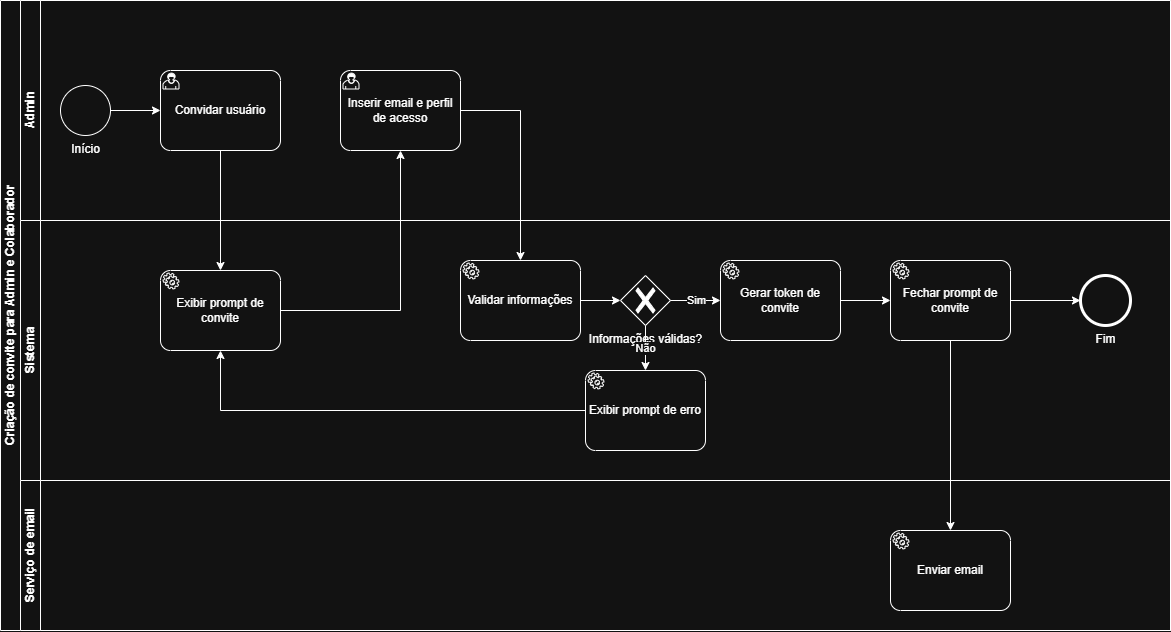
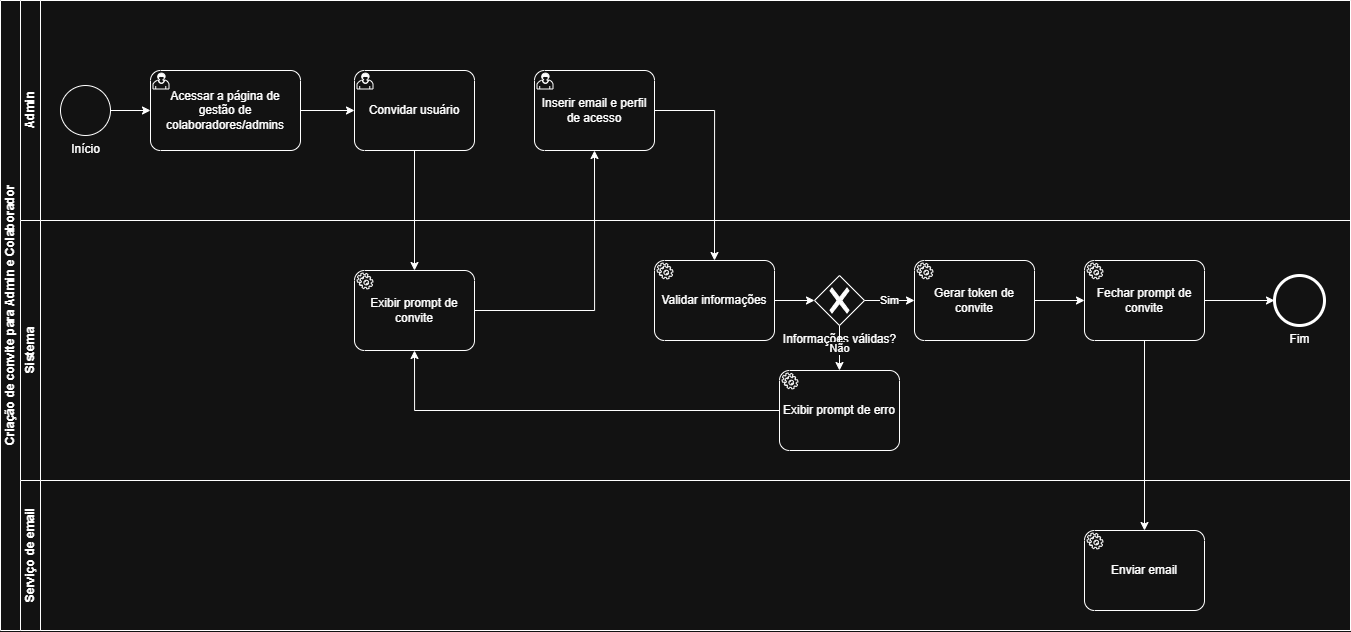
Atualiza diagrama do subprocesso de gestão de usuário e atualiza a documentação.

diff --git a/docs/processo-1-gestao-de-usuario.md b/docs/processo-1-gestao-de-usuario.md
@@ -1,16 +1,10 @@
 # 3.3.1 Processo 1 – GESTÃO DE USUÁRIO
 
----
-
 O processo de **Gestão de Usuário** tem como objetivo permitir o cadastro e manutenção das informações dos colaboradores e clientes da empresa, garantindo maior organização dos dados, rastreabilidade e apoio aos demais processos do sistema, como agendamento, prestação de serviços e cálculo de comissão.
 
 Atualmente, em muitos pequenos negócios, o controle de colaboradores é feito de maneira informal ou por meio de planilhas, o que pode gerar inconsistências cadastrais, retrabalho e dificuldade de integração com outros processos da operação. Com a informatização desse processo, será possível centralizar as informações dos profissionais, melhorar a confiabilidade dos dados e aumentar a eficiência administrativa do negócio.
 
----
-
 ## Oportunidades de melhoria
-
----
 
 A informatização do processo de Gestão de Colaborador traz as seguintes oportunidades de melhoria:
 
@@ -26,55 +20,17 @@ A informatização do processo de Gestão de Colaborador traz as seguintes oport
 
 • melhor rastreabilidade das alterações realizadas no cadastro.
 
----
-
 ## Modelagem
 
----
+Em seguida, apresentam-se os modelos dos sub-processos do processo de Gestão de Colaborador, descritos no padrão BPMN:
 
-Em seguida, apresenta-se os modelos do processo de Gestão de Colaborador, descritos no padrão BPMN:
-
-### Autenticação e Registro de Cliente
-![Autenticação e Registro de Cliente](images/bpmn/gestao-de-usuario/bpmn-gestao-de-usuario-sp1.png "Modelo BPMN do Processo 1 - Autenticação e Registro de Cliente.")
-
-### Subprocesso - Registro de Cliente
-![Subprocesso - Registro de Cliente](images/bpmn/gestao-de-usuario/bpmn-gestao-de-usuario-sp2.png "Modelo BPMN do Processo 1 - Subprocesso - Registro de Cliente.")
-
-### Criação de Convite para Admin e Colaborador
-![Criação de Convite para Admin e Colaborador](images/bpmn/gestao-de-usuario/bpmn-gestao-de-usuario-sp3.png "Modelo BPMN do Processo 1 - Criação de Convite para Admin e Colaborador")
-
-### Registro de Usuário Convidado
-![Registro de Usuário Convidado](images/bpmn/gestao-de-usuario/bpmn-gestao-de-usuario-sp4.png "Modelo BPMN do Processo 1 -Registro de Usuário Convidado.")
-
----
-
-## Detalhamento das atividades
-
----
-
-## Subprocesso 1 – Autenticação e Registro de Cliente
+### Subprocesso 1 – Autenticação e Registro de Cliente
 
 O processo de **Autenticação e Registro de Cliente** tem como objetivo permitir que um cliente acesse o sistema por meio do cadastro de uma nova conta ou pela autenticação com credenciais já existentes. O processo garante que apenas usuários com credenciais válidas obtenham acesso ao sistema. O processo se inicia com o usuário acessando a aplicação Web e apresentando a ele as opções disponíveis: criar uma nova conta ou digitar credenciais de acesso já existentes. Caso o usuário acione a opção de criação de uma nova conta, o sistema redireciona para o subprocesso de cadastro responsável pelo preenchimento e validação dos dados cadastrais do novo cliente. Ao ser concluído com sucesso, o sistema redireciona o usuário para a tela de autenticação. O detalhamento interno deste subprocesso está descrito no **Processo 2 – Registro de Cliente**. O usuário insere suas credenciais de acesso ao sistema (e-mail e senha). Esta atividade é inicializada tanto pelo fluxo de login direto quanto após a conclusão do cadastro. Depois há uma atividade executada pelo sistema em que as credenciais informadas são verificadas em relação à existência do usuário e à correspondência da senha. Não há interação direta do usuário nesta etapa. Caso a validação invalide a entrada, o sistema exibe uma mensagem de erro informando que as credenciais inseridas são inválidas. Então o usuário é redirecionado para tentar novamente. Caso a validação das credenciais seja bem-sucedida, uma sessão autenticada é criada para o usuário, concedendo a ele acesso ao sistema.
 
-## Subprocesso 2 – Registro de Cliente
+![Autenticação e Registro de Cliente](images/bpmn/gestao-de-usuario/bpmn-gestao-de-usuario-sp1.png "Modelo BPMN do Processo 1 - Subprocesso - Autenticação e Registro de Cliente.")
 
-O processo de **Registro de Cliente** corresponde ao subprocesso de cadastro referenciado no Processo 1. Ele tem como objetivo coletar e validar as informações do novo cliente, efetuando seu login automaticamente ao final do cadastro bem-sucedido. O usuário preenche o formulário de cadastro com seus dados pessoais de acesso (esta é a única atividade de interação do usuário neste processo). Em seguida, há uma atividade executada pelo sistema em que os dados informados no formulário são verificados em relação ao cumprimento das restrições definidas (campos obrigatórios, e-mail único, correspondência de senha). Depois o sistema exibe uma mensagem de erro indicando quais campos precisam ser corrigidos. O usuário retorna ao formulário para efetuar os ajustes necessários. Após a validação bem-sucedida dos dados, o novo cadastro é registrado e uma sessão autenticada é criada automaticamente para o usuário encerrando o subprocesso.
-
-## Subprocesso 3 – Criação de Convite para Admin e Colaborador
-
-O processo de **Criação de Convite para Admin e Colaborador** tem como objetivo permitir que um administrador convide novos usuários para o sistema definindo seu e-mail e perfil de acesso. O sistema valida as informações, gera um token de convite e envia o convite por e-mail ao destinatário. O processo se inicia com o administrador acionando a funcionalidade de convite de novo usuário. Em seguida, o sistema exibe o prompt de convite para preenchimento das informações e exibe o formulário de convite para que o administrador insira o e-mail e o perfil de acesso do usuário convidado. O administrador preenche o e-mail do destinatário e define o perfil de acesso que será atribuído ao usuário convidado. Depois disso, há uma atividade do sistema em que e-mail e o perfil de acesso informados são verificados quanto ao formato e preenchimento obrigatório. Caso encontre algum erro, o sistema exibe uma mensagem de erro informando quais campos estão incorretos. Seguido disso, o administrador retorna ao formulário para corrigir os dados. Uma vez corrigido os dados ou inseridos eles corretamente, um token único de convite é gerado e associado ao e-mail e perfil de acesso definidos pelo administrador. Este token será utilizado para autenticar o convite no momento do registro do usuário. Em seguida, o sistema fecha o formulário de convite e aciona o serviço de e-mail para envio do convite ao destinatário. Ao final, o convite contendo o link com o token gerado é enviado ao endereço de e-mail informado pelo administrador.
-
-## Subprocesso 4 – Registro de Usuário Convidado
-
-O processo de **Registro de Usuário Convidado** tem como objetivo permitir que um usuário que recebeu um convite por e-mail conclua seu cadastro no sistema. O processo valida o token do convite, identifica o tipo de usuário (Admin ou Colaborador), exibe o formulário de cadastro correspondente e, após validação dos dados, realiza o login automaticamente. O processo se inicia com o usuário acessando o link de convite recebido por e-mail. Em seguida, o sistema recebe o token embutido no link e inicia o processo de validação. Há uma atividade executada pelo sistema em que o token presente no link é recebido e encaminhado para validação. Depois disso, o token recebido é verificado quanto à sua existência, validade e prazo de expiração. De acordo com a falta de correspondência, o sistema exibe uma mensagem informando que o link do convite é inválido ou expirou e então o processo é encerrado. Se a correspondência é positiva e o sistema identifica o perfil de acesso associado ao token do convite, ele redireciona para a página de cadastro correspondente. Logo em seguida, o sistema exibe o formulário de cadastro para o perfil de administrador ou o formulário de cadastro para o perfil de colaborador a depender do acesso. Então o usuário preenche o formulário de cadastro exibido conforme seu perfil de acesso. Esta atividade é compartilhada pelos fluxos de admin e colaborador. Depois há uma atividade do sistema em que os dados preenchidos no formulário são verificados quanto ao cumprimento das restrições definidas. Em caso de negativa, o sistema exibe uma mensagem de erro indicando quais campos precisam ser corrigidos e o usuário retorna ao formulário para efetuar os ajustes. Em caso de validação bem-sucedida dos dados, o novo cadastro é efetuado, o token de convite é invalidado e uma sessão autenticada é criada automaticamente para o usuário.
-
-## Subprocessos
-
----
-
-## Subprocesso 1 – Autenticação e Registro do Usuário
-
----
+#### Detalhamento das atividades
 
 #### Abrir aplicação
 
@@ -95,11 +51,23 @@ O processo de **Registro de Usuário Convidado** tem como objetivo permitir que 
 | Sessão criada (admi)      | Atividade "Registro de Usuário Convidado" |
 | Mensagem de erro    | "Credenciais inválidas. Tente novamente." |
 
+#### Wireframes
+
+![Tela Autenticação](images/wireframe/gestao-de-usuario/loginServifySemErro.png)
+
 ---
 
-## Subprocesso 2 – Registro de Cliente
+![Tela Autenticação](images/wireframe/gestao-de-usuario/loginServifyComErro.png)
 
 ---
+
+### Subprocesso 2 – Registro de Cliente
+
+O processo de **Registro de Cliente** corresponde ao subprocesso de cadastro referenciado no Processo 1. Ele tem como objetivo coletar e validar as informações do novo cliente, efetuando seu login automaticamente ao final do cadastro bem-sucedido. O usuário preenche o formulário de cadastro com seus dados pessoais de acesso (esta é a única atividade de interação do usuário neste processo). Em seguida, há uma atividade executada pelo sistema em que os dados informados no formulário são verificados em relação ao cumprimento das restrições definidas (campos obrigatórios, e-mail único, correspondência de senha). Depois o sistema exibe uma mensagem de erro indicando quais campos precisam ser corrigidos. O usuário retorna ao formulário para efetuar os ajustes necessários. Após a validação bem-sucedida dos dados, o novo cadastro é registrado e uma sessão autenticada é criada automaticamente para o usuário encerrando o subprocesso.
+
+![Subprocesso - Registro de Cliente](images/bpmn/gestao-de-usuario/bpmn-gestao-de-usuario-sp2.png "Modelo BPMN do Processo 1 - Subprocesso - Registro de Cliente.")
+
+#### Detalhamento das atividades
 
 #### Preencher formulário
 
@@ -130,11 +98,91 @@ O processo de **Registro de Usuário Convidado** tem como objetivo permitir que 
 | Cadastro realizado  | Toast "Cadastro realizado com sucesso." e Atividade "Preencher formulário"  |
 | Mensagem de erro    | "Campo inválido" |
 
+#### Wireframes
+
+![Tela Subprocesso - Registro de Cliente](images/wireframe/gestao-de-usuario/cadastroClienteServify.png)
+
 ---
 
-## Subprocesso 3 – Registro de Usuários
+### Subprocesso 3 – Criação de Convite para Admin e Colaborador
+
+O processo de **Criação de Convite para Admin e Colaborador** tem como objetivo permitir que um administrador convide novos usuários para o sistema definindo seu e-mail e perfil de acesso. O sistema valida as informações, gera um token de convite e envia o convite por e-mail ao destinatário. O processo se inicia com o administrador acionando a funcionalidade de convite de novo usuário. Em seguida, o sistema exibe o prompt de convite para preenchimento das informações e exibe o formulário de convite para que o administrador insira o e-mail e o perfil de acesso do usuário convidado. O administrador preenche o e-mail do destinatário e define o perfil de acesso que será atribuído ao usuário convidado. Depois disso, há uma atividade do sistema em que e-mail e o perfil de acesso informados são verificados quanto ao formato e preenchimento obrigatório. Caso encontre algum erro, o sistema exibe uma mensagem de erro informando quais campos estão incorretos. Seguido disso, o administrador retorna ao formulário para corrigir os dados. Uma vez corrigido os dados ou inseridos eles corretamente, um token único de convite é gerado e associado ao e-mail e perfil de acesso definidos pelo administrador. Este token será utilizado para autenticar o convite no momento do registro do usuário. Em seguida, o sistema fecha o formulário de convite e aciona o serviço de e-mail para envio do convite ao destinatário. Ao final, o convite contendo o link com o token gerado é enviado ao endereço de e-mail informado pelo administrador.
+
+![Criação de Convite para Admin e Colaborador](images/bpmn/gestao-de-usuario/bpmn-gestao-de-usuario-sp3.png "Modelo BPMN do Processo 1 - Criação de Convite para Admin e Colaborador")
+
+#### Detalhamento das atividades
+
+#### Convidar usuário
+
+| **Comandos**     | **Destino**                         | **Tipo** |
+| ---------------- | ----------------------------------- | -------- |
+| Convidar | Atividade "Exibir prompt de convite" | padrão  |
 
 ---
+
+#### Exibir prompt de convite
+
+| **Campo**         | **Tipo**       | **Restrições**                        | **Valor padrão** |
+| ----------------- | -------------- | ------------------------------------- | ---------------- |
+| E-mail do usuário            | Caixa de texto | obrigatório; deve ter formato válido  | vazio            |
+| Cargo  | Seleção única  | Admin / Colaborador                   | Colaborador      |
+
+| **Comandos**          | **Destino**                              | **Tipo** |
+| --------------------- | ---------------------------------------- | -------- |
+| Enviar Convite | Atividade "Exibir mensagem de convite enviado" | padrão |
+| Cancelar              | Fim do processo                          | cancelar |
+
+| **Resultado**        | **Destino**                          |
+| -------------------- | ------------------------------------ |
+| Convite enviado  | Atividade "Convite convite enviado com sucesso"   |
+| Mensagem | "Não foi possível enviar o convite. Tente novamente."   |
+
+---
+
+#### Fechar prompt de convite
+
+| **Comandos**          | **Destino**                              | **Tipo** |
+| --------------------- | ---------------------------------------- | -------- |
+| "X" | Atividade "Exibir mensagem de convite enviado" | padrão |
+
+| **Campo**          | **Tipo** | **Restrições**  | **Valor padrão**              |
+| ------------------ | -------- | --------------- | ----------------------------- |
+| prompt de convite  | Exibição | somente leitura | fechado automaticamente       |
+
+| **Resultado**     | **Destino**               |
+| ----------------- | ------------------------- |
+| prompt fechado    | Atividade "Enviar e-mail" |
+
+---
+
+#### Enviar e-mail
+
+| **Campo**           | **Tipo** | **Restrições**  | **Valor padrão**                        |
+| ------------------- | -------- | --------------- | --------------------------------------- |
+| destinatário        | Interno  | somente leitura | e-mail informado pelo administrador     |
+| link do convite     | Interno  | somente leitura | gerado com o token de convite           |
+
+| **Resultado**    | **Destino**     |
+| ---------------- | --------------- |
+| e-mail enviado   | Fim do processo |
+
+#### Wireframe
+
+![Tela Registro de Usuário Convidado](images/wireframe/gestao-de-usuario/listagemColaboradoresServify.png)
+
+---
+
+![Tela Criação de Convite para Colaborador](images/wireframe/gestao-de-usuario/inviteColaboradoresServify.png)
+
+---
+
+### Subprocesso 4 – Registro de Usuário Convidado
+
+O processo de **Registro de Usuário Convidado** tem como objetivo permitir que um usuário que recebeu um convite por e-mail conclua seu cadastro no sistema. O processo valida o token do convite, identifica o tipo de usuário (Admin ou Colaborador), exibe o formulário de cadastro correspondente e, após validação dos dados, realiza o login automaticamente. O processo se inicia com o usuário acessando o link de convite recebido por e-mail. Em seguida, o sistema recebe o token embutido no link e inicia o processo de validação. Há uma atividade executada pelo sistema em que o token presente no link é recebido e encaminhado para validação. Depois disso, o token recebido é verificado quanto à sua existência, validade e prazo de expiração. De acordo com a falta de correspondência, o sistema exibe uma mensagem informando que o link do convite é inválido ou expirou e então o processo é encerrado. Se a correspondência é positiva e o sistema identifica o perfil de acesso associado ao token do convite, ele redireciona para a página de cadastro correspondente. Logo em seguida, o sistema exibe o formulário de cadastro para o perfil de administrador ou o formulário de cadastro para o perfil de colaborador a depender do acesso. Então o usuário preenche o formulário de cadastro exibido conforme seu perfil de acesso. Esta atividade é compartilhada pelos fluxos de admin e colaborador. Depois há uma atividade do sistema em que os dados preenchidos no formulário são verificados quanto ao cumprimento das restrições definidas. Em caso de negativa, o sistema exibe uma mensagem de erro indicando quais campos precisam ser corrigidos e o usuário retorna ao formulário para efetuar os ajustes. Em caso de validação bem-sucedida dos dados, o novo cadastro é efetuado, o token de convite é invalidado e uma sessão autenticada é criada automaticamente para o usuário.
+
+![Registro de Usuário Convidado](images/bpmn/gestao-de-usuario/bpmn-gestao-de-usuario-sp4.png "Modelo BPMN do Processo 1 -Registro de Usuário Convidado.")
+
+#### Detalhamento das atividades
 
 #### Clicar no link do convite
 
@@ -274,82 +322,9 @@ O processo de **Registro de Usuário Convidado** tem como objetivo permitir que 
 | **Resultado**    | **Destino**     |
 | ---------------- | --------------- |
 | login realizado  | Fim do processo |
-
----
-
-## Subprocesso 4 – Criação de Convite para Admin e Colaborador
-
----
-
-#### Convidar usuário
-
-| **Comandos**     | **Destino**                         | **Tipo** |
-| ---------------- | ----------------------------------- | -------- |
-| Convidar | Atividade "Exibir prompt de convite" | padrão  |
-
----
-
-#### Exibir prompt de convite
-
-| **Campo**         | **Tipo**       | **Restrições**                        | **Valor padrão** |
-| ----------------- | -------------- | ------------------------------------- | ---------------- |
-| E-mail do usuário            | Caixa de texto | obrigatório; deve ter formato válido  | vazio            |
-| Cargo  | Seleção única  | Admin / Colaborador                   | Colaborador      |
-
-| **Comandos**          | **Destino**                              | **Tipo** |
-| --------------------- | ---------------------------------------- | -------- |
-| Enviar Convite | Atividade "Exibir mensagem de convite enviado" | padrão |
-| Cancelar              | Fim do processo                          | cancelar |
-
-| **Resultado**        | **Destino**                          |
-| -------------------- | ------------------------------------ |
-| Convite enviado  | Atividade "Convite convite enviado com sucesso"   |
-| Mensagem | "Não foi possível enviar o convite. Tente novamente."   |
-
----
-
-#### Fechar prompt de convite
-
-| **Comandos**          | **Destino**                              | **Tipo** |
-| --------------------- | ---------------------------------------- | -------- |
-| "X" | Atividade "Exibir mensagem de convite enviado" | padrão |
-
-| **Campo**          | **Tipo** | **Restrições**  | **Valor padrão**              |
-| ------------------ | -------- | --------------- | ----------------------------- |
-| prompt de convite  | Exibição | somente leitura | fechado automaticamente       |
-
-| **Resultado**     | **Destino**               |
-| ----------------- | ------------------------- |
-| prompt fechado    | Atividade "Enviar e-mail" |
-
----
-
-#### Enviar e-mail
-
-| **Campo**           | **Tipo** | **Restrições**  | **Valor padrão**                        |
-| ------------------- | -------- | --------------- | --------------------------------------- |
-| destinatário        | Interno  | somente leitura | e-mail informado pelo administrador     |
-| link do convite     | Interno  | somente leitura | gerado com o token de convite           |
-
-| **Resultado**    | **Destino**     |
-| ---------------- | --------------- |
-| e-mail enviado   | Fim do processo |
-
----
  
-## Wireframe
+#### Wireframes
 
-### Autenticação e Registro de Cliente
-![Tela Autenticação](images/wireframe/gestao-de-usuario/loginServifySemErro.png)
-![Tela Autenticação](images/wireframe/gestao-de-usuario/loginServifyComErro.png)
-
-### Subprocesso - Registro de Cliente
-![Tela Subprocesso - Registro de Cliente](images/wireframe/gestao-de-usuario/cadastroClienteServify.png)
 ![Tela Subprocesso - Registro de Cliente](images/wireframe/gestao-de-usuario/cadastroColaboradorServify.png)
 
-### Criação de Convite para Colaborador
-![Tela Criação de Convite para Colaborador](images/wireframe/gestao-de-usuario/inviteColaboradoresServify.png)
-
-### Registro de Colaboradores e Cliente
 ![Tela Registro de Usuário Convidado](images/wireframe/gestao-de-usuario/listagemClientesServify.png)
-![Tela Registro de Usuário Convidado](images/wireframe/gestao-de-usuario/listagemColaboradoresServify.png)
